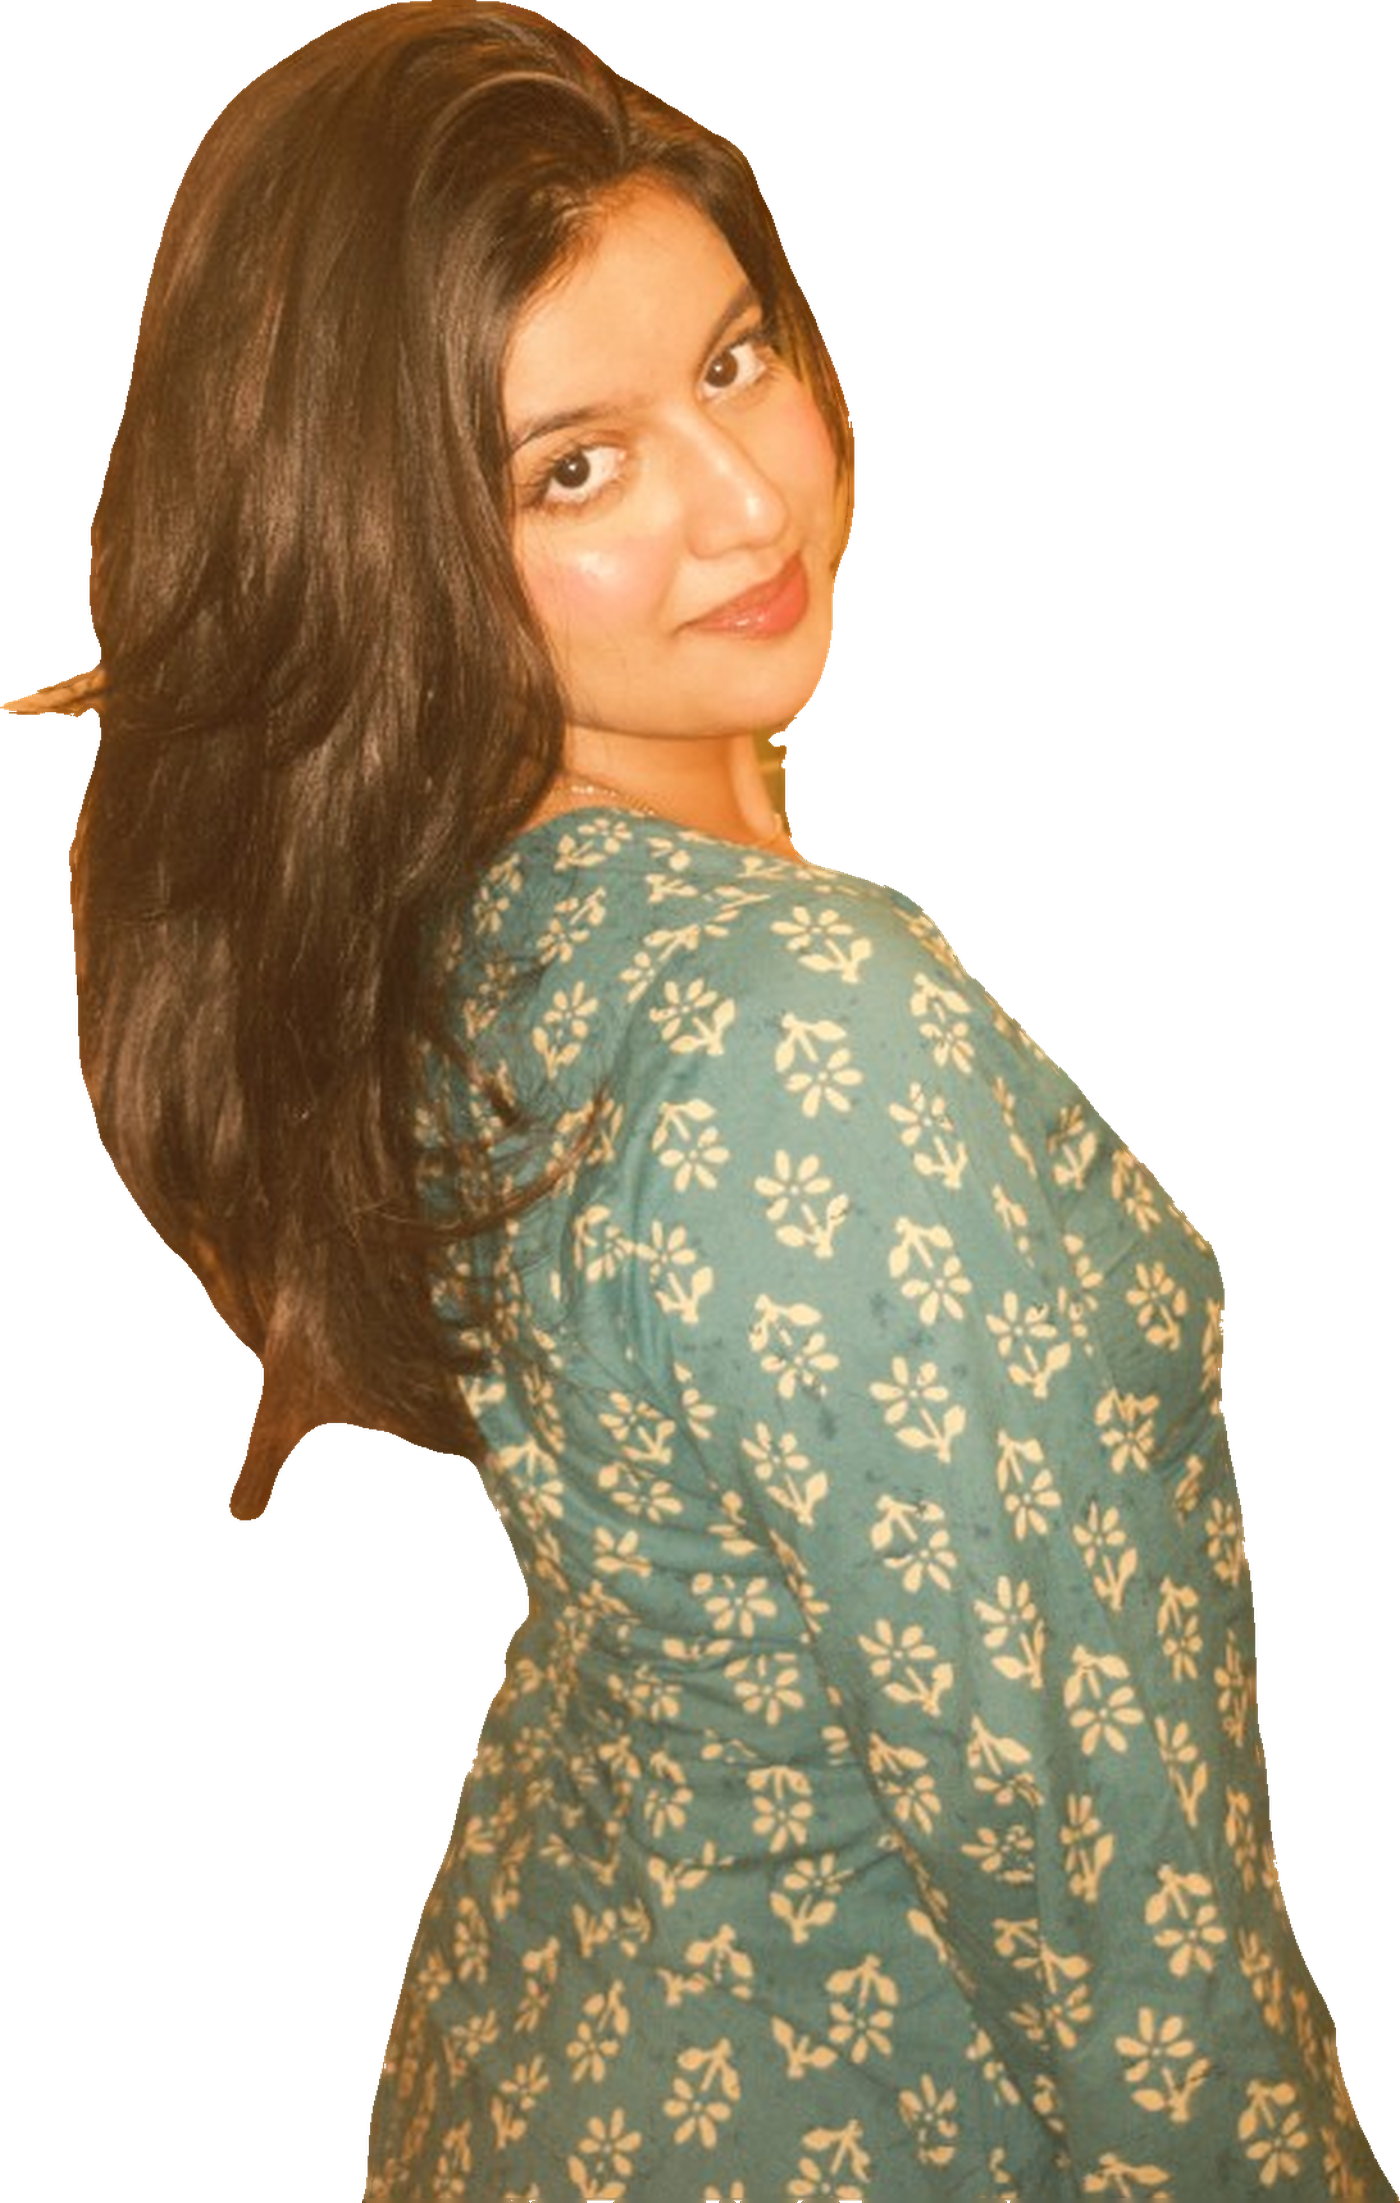
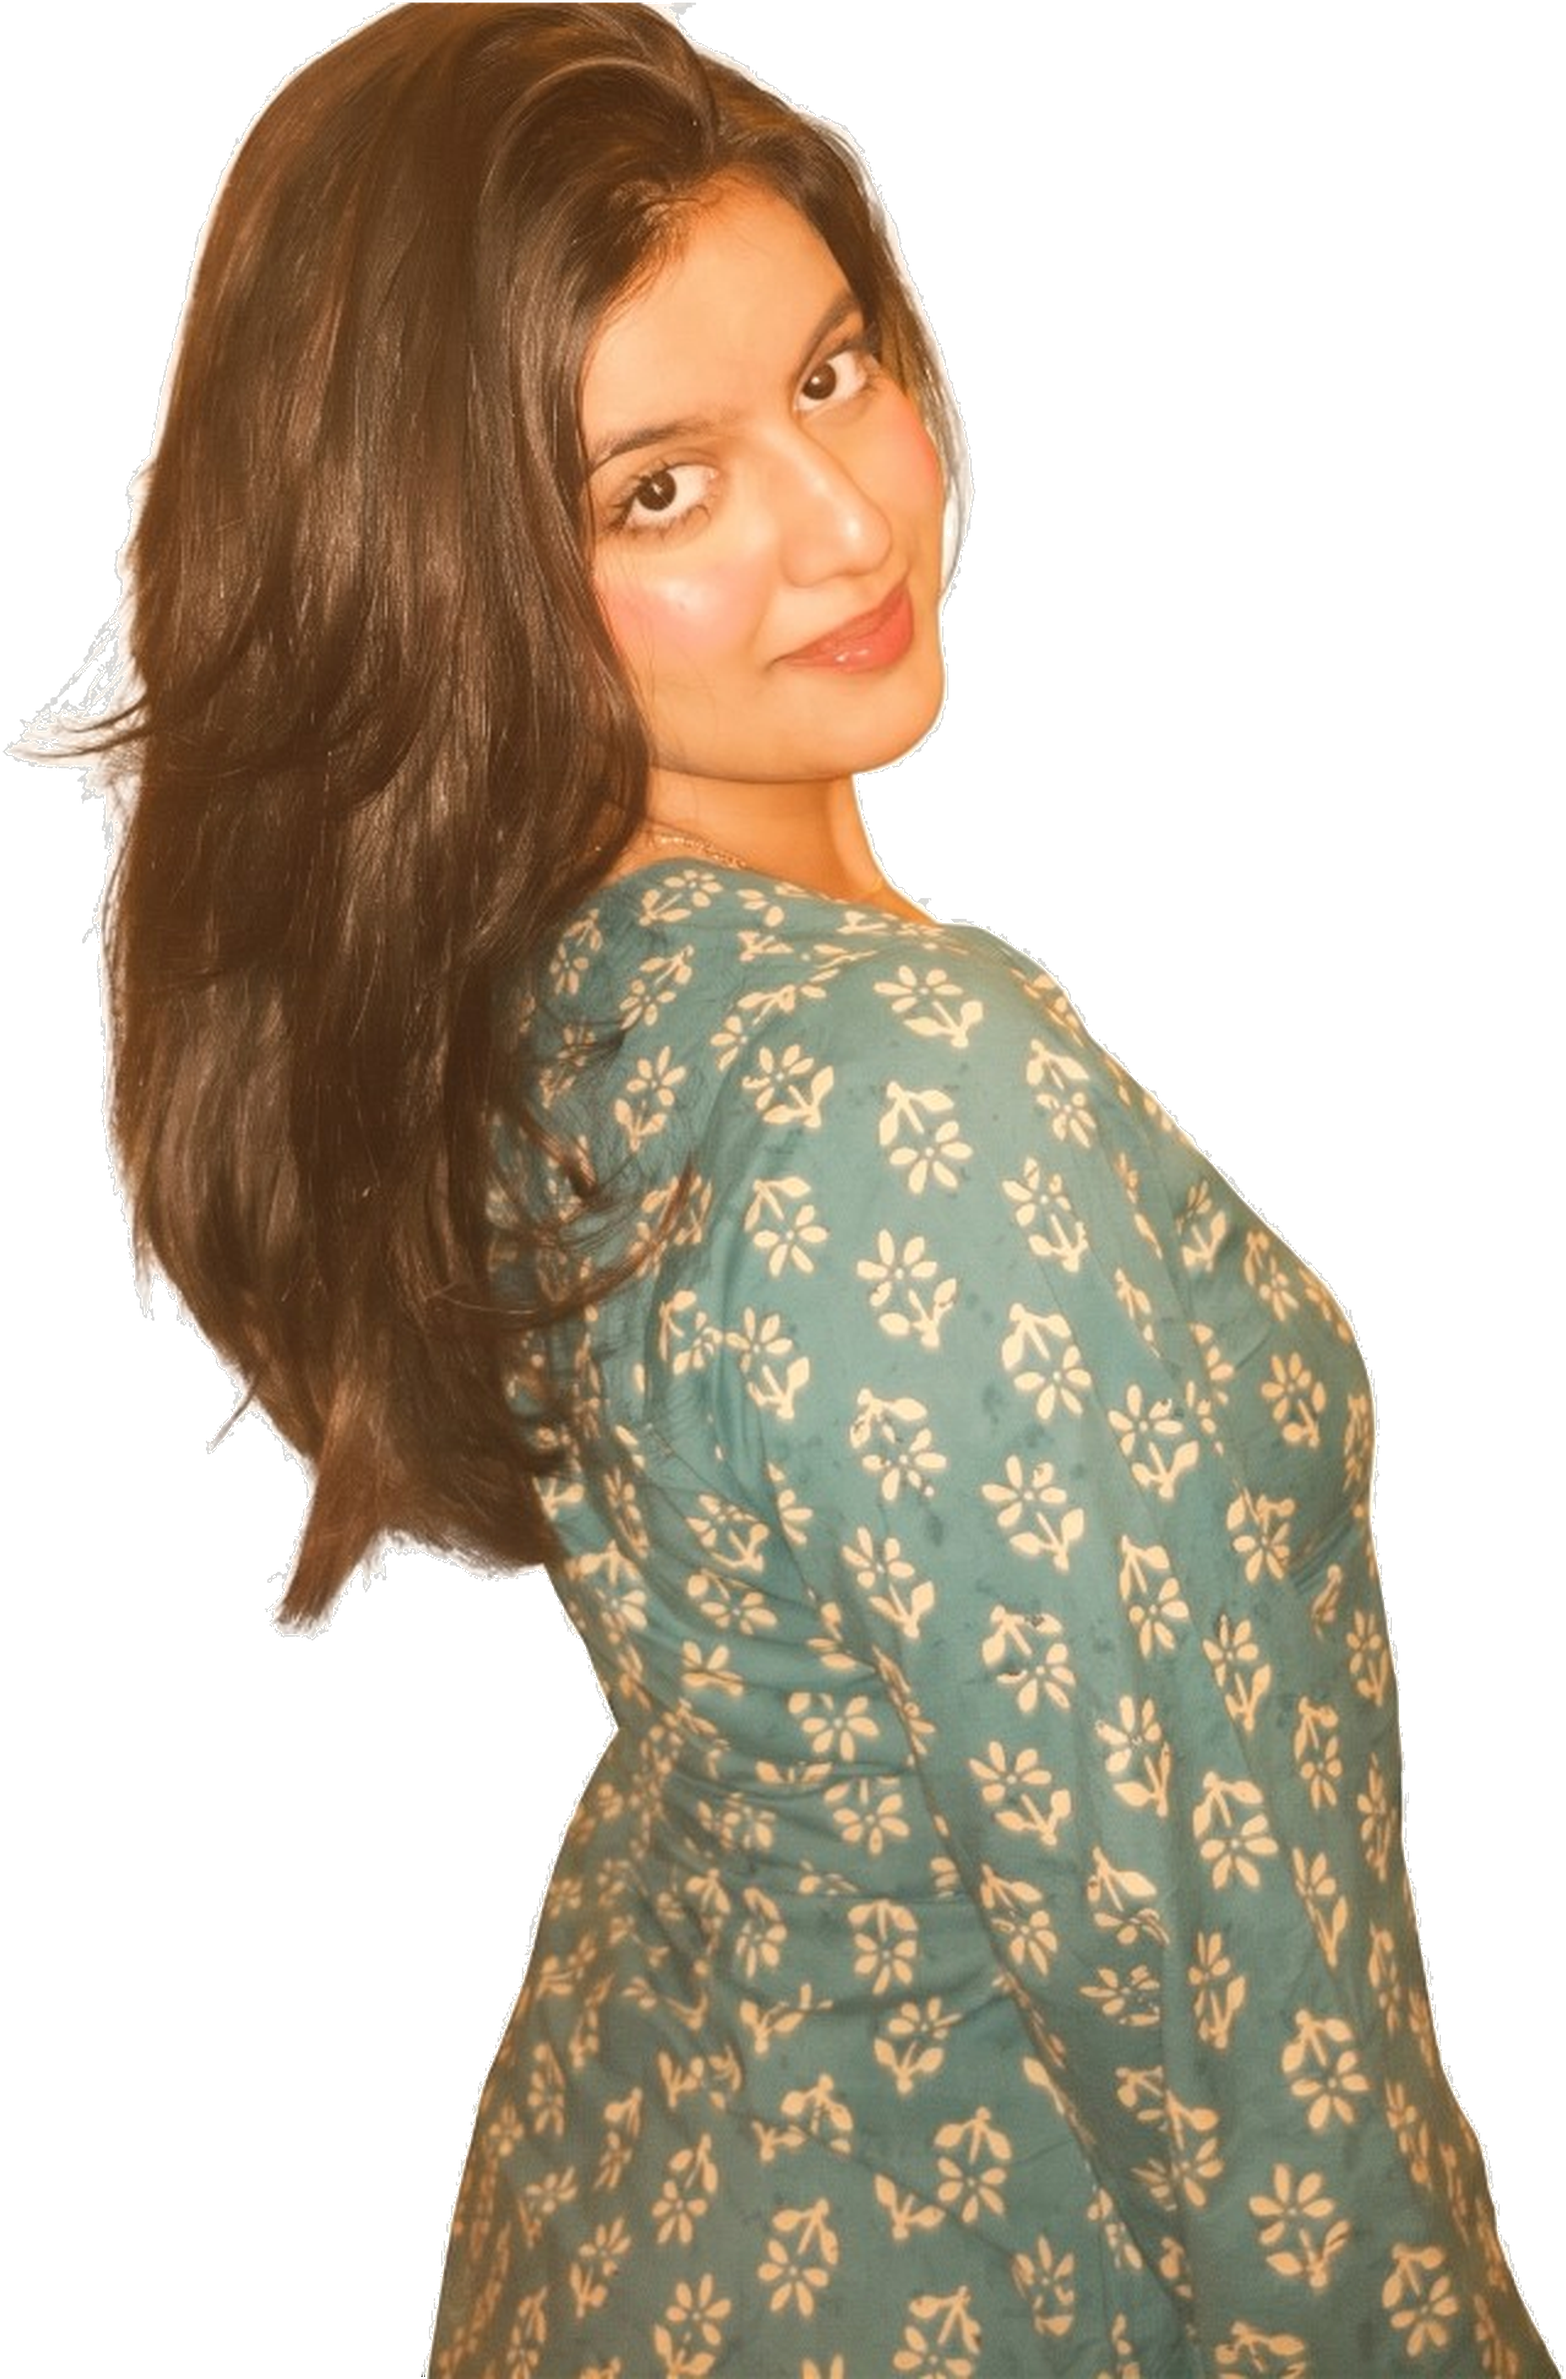
Swap hero to the white-background cutout and size her back up.
Key the provided portrait with hair preserved, pin the hem on the 100svh baseline, and raise the hero scale so she is no longer undersized.

Changed region(s): [[0.0, 0.0, 1.0, 1.0], [0.3071, 0.0617, 0.3379, 0.0926]]

diff --git a/app/sections.css b/app/sections.css
@@ -178,8 +178,8 @@
     position: relative;
     align-self: end;
     width: 100%;
-    /* Shorter than full viewport so the cutout clears the nav and reads smaller */
-    height: min(56svh, calc(100svh - 8rem));
+    /* Tall enough to read as hero; still clears nav and sits on baseline */
+    height: min(74svh, calc(100svh - 6.5rem));
     min-height: 0;
     margin-right: calc(var(--gutter) * -1);
     overflow: visible;
@@ -196,7 +196,7 @@
     position: relative;
     height: 100%;
     width: auto;
-    max-width: min(100%, 400px);
+    max-width: min(100%, 560px);
     display: block;
     line-height: 0;
     overflow: visible;
@@ -245,7 +245,7 @@
     }
     .hero-portrait {
       order: 2;
-      height: 58svh;
+      height: 62svh;
       max-width: none;
       margin-inline: -0.35rem;
       margin-right: -0.35rem;
@@ -254,7 +254,7 @@
       justify-content: center;
     }
     .hero-portrait__figure {
-      max-width: min(88vw, 420px);
+      max-width: min(92vw, 520px);
       margin-inline: auto;
     }
     .hero-portrait__img {

diff --git a/lib/content.ts b/lib/content.ts
@@ -83,9 +83,9 @@ export const INQUIRY_OPTIONS: InquiryOption[] = [
 
 const PHOTOS = {
   hero: {
-    src: "/siya/photos/siya-hero-cutout.png?v=3",
-    width: 1400,
-    height: 2203,
+    src: "/siya/photos/siya-hero-cutout.png?v=7",
+    width: 1566,
+    height: 2379,
     alt: "Siya looking back over her shoulder in a teal floral dress",
     blur: BLUR.hero,
   },
